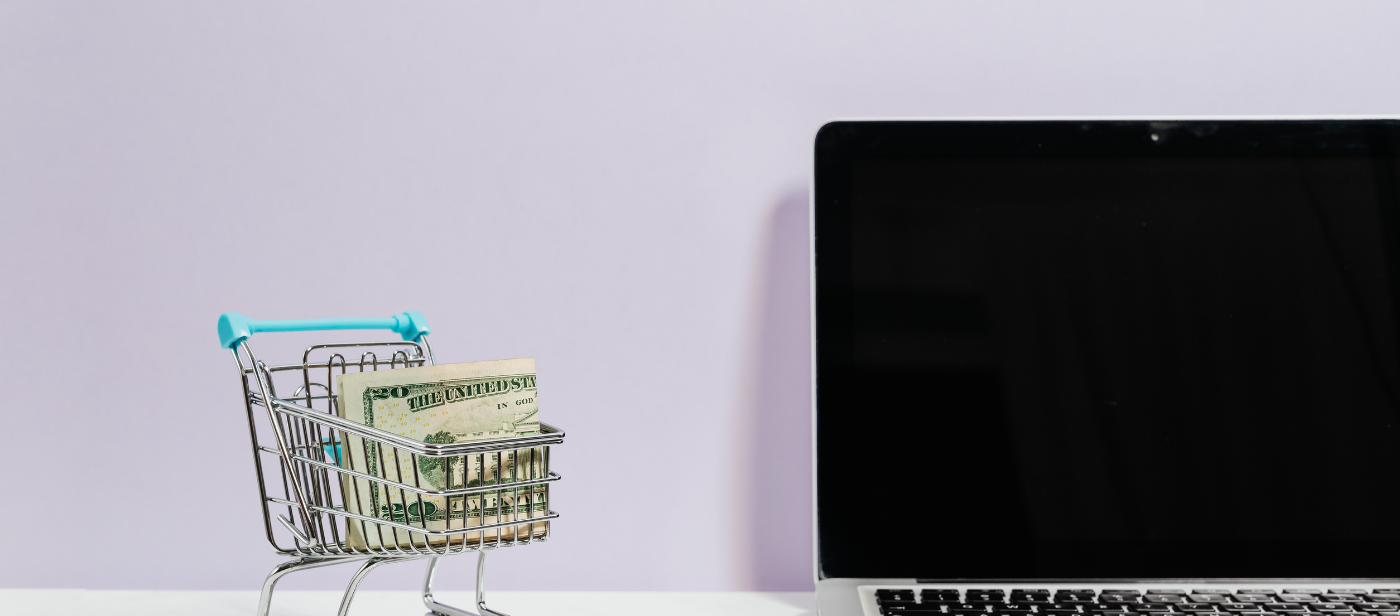
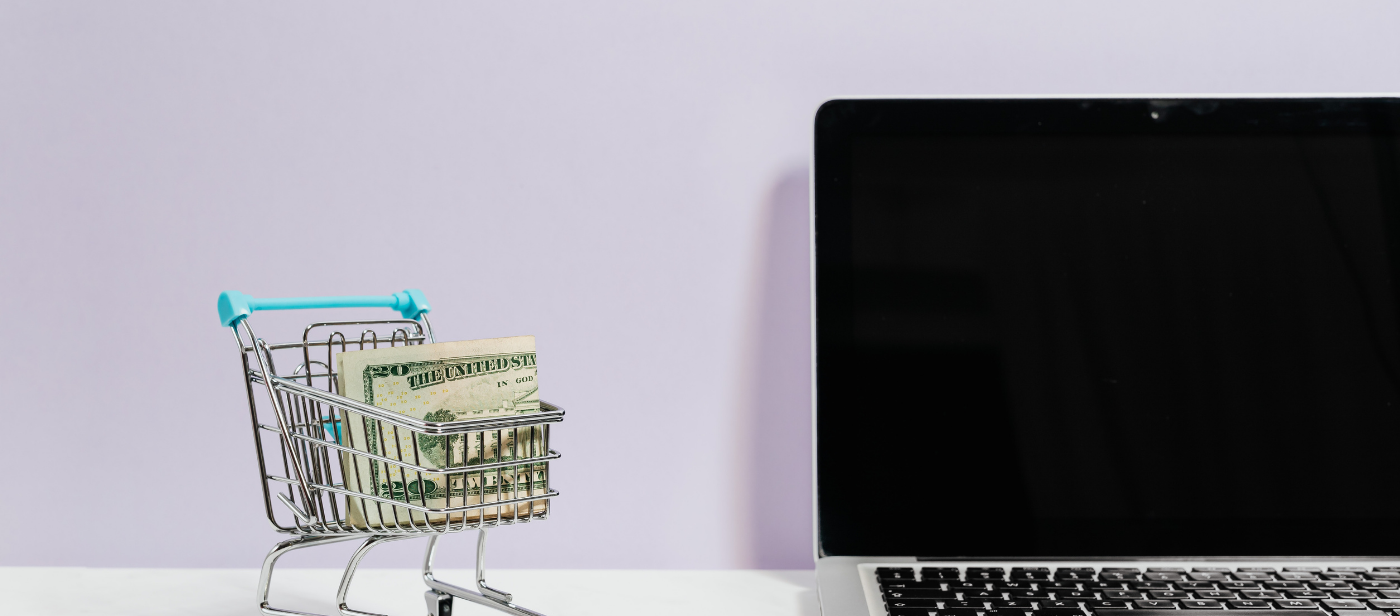
landing page

Changed region(s): [[0.0, 0.4627, 1.0, 1.0], [0.5836, 0.1542, 1.0, 0.2159], [0.5529, 0.2776, 0.5836, 0.3393]]

diff --git a/src/components/imageParagraphComponent/structures/marketingStructure.js b/src/components/imageParagraphComponent/structures/marketingStructure.js
@@ -7,11 +7,11 @@ const marketingStructure = {
   },
   paragraph: {
     className: 'share-nanny-cost-p',
-    text: 'Aumente as suas vendas e a visibilidade da sua marca disponibilizando seus produtos para que influenciadores digitais escolhidos por você possam divulgá-los em suas redes sociais'
+    text: [<span className='grey-p'>Aumente as suas vendas</span>, " e a visibilidade da sua marca disponibilizando seus produtos para que ", <span className='orange-p'>influenciadores digitais</span>, " escolhidos por você possam divulgá-los em suas redes sociais"]
   },
   link: {
     className: 'share-nany-cost-link',
-    text: 'Ready to get started?',
+    text: 'Está pronto para vender mais?',
     href: '/#leedForm',
   },
   image: {

diff --git a/src/components/imageParagraphComponent/structures/onlineStoreStructure.js b/src/components/imageParagraphComponent/structures/onlineStoreStructure.js
@@ -7,11 +7,11 @@ const onlineStoreStructure = {
   },
   paragraph: {
     className: 'share-nanny-cost-p',
-    text: 'Ter uma loja online totalmente personalizada com a sua cara e o seu estilo nunca foi tão fácil, rápido e barato. Ah, e você pode adicionar quantos produtos quiser em sua loja'
+    text: ['Ter uma loja online totalmente ', <span className='grey-p'>personalizada</span>, ' com a sua cara e o seu estilo nunca foi tão fácil, rápido e barato. Ah, e você pode adicionar quantos ', <span className='grey-p'>produtos</span>, ' quiser em sua loja']
   },
   link: {
     className: 'share-nany-cost-link',
-    text: 'Ready to get started?',
+    text: 'Está pronto para vender mais?',
     href: '/#leedForm',
   },
   image: {

diff --git a/src/patterns/header.js b/src/patterns/header.js
@@ -1,6 +1,7 @@
 import React from 'react';
 import { Link } from "react-router-dom";
 import './header.css';
+import { HashLink } from 'react-router-hash-link';
 import shape from '../images/homePage/shape.svg';
 
 
@@ -22,7 +23,7 @@ function Header() {
         </div>
         <div className="right-nav">
           <div className="right-links">
-            <button className="become-a-nanny-share"><h5 className="become-a-nanny-share-title">Inscreva-se</h5></button>
+            <HashLink to="/#leedForm"><button className="become-a-nanny-share"><h5 className="become-a-nanny-share-title">Inscreva-se</h5></button></HashLink>
             {/* <Link className='header-link' to='/4'>Sign in</Link> */}
           </div>
         </div>

diff --git a/src/components/headline/headline.css b/src/components/headline/headline.css
@@ -1,12 +1,12 @@
 .h1-home-page {
-  color: #FFFFFF;
+  color: black;
   width: 350px;
   font-size: 3rem;
   margin: 0 0 40px 0;
 }
 
 .p-home-page {
-  color: #FFFFFF;
+  color: black;
   height: 48px;
   width: 450px;
   margin: 0 0 40px 0;
@@ -36,7 +36,7 @@
 }
 
 .head-line-left {
-  margin: 40px 0 0 0;
+  margin: -150px 0 0 0;
   width: 450px;
 }
 
@@ -60,13 +60,24 @@
   width: 246px;
 }
 
+.greeting-image {
+  margin: 0 0 0 90px;
+}
+
 @media screen and (max-width: 415px) {
   .greeting-image {
     display: none;
   }
 
+  .headline-left-content {
+    padding: 5px 5px 1px 5px;
+    border-radius: 10px;
+    background-color: #FFFFFF;
+  }
+
   .head-line-left {
     width: 92vw;
+    margin: 0;
   }
 
   .h1-home-page {

diff --git a/src/components/raiseSellButton/raiseSellButton.js b/src/components/raiseSellButton/raiseSellButton.js
@@ -1,10 +1,11 @@
 import React from 'react';
+import { HashLink } from 'react-router-hash-link';
 import './raiseSellButton.css'
 
 function RaiseSellButton() {
   return (
     <div className="raise-sell-button-container">
-      <button className="raise-sell-button">Quero aumentar minhas vendas agora mesmo</button>
+      <HashLink to='/#leedForm'><button className="raise-sell-button">Quero aumentar minhas vendas agora mesmo</button></HashLink>
     </div>
   )
 }

diff --git a/src/patterns/footer.js b/src/patterns/footer.js
@@ -12,7 +12,7 @@ import Divider from '../components/divider/divider';
 function Footer() {
   return (
     <footer className="footer-container">
-      <h2 className="footer-h2">Inscreva-se e seja um dos primeiros lojistas!</h2>
+      <h2 className="footer-h2">Inscreva-se</h2>
       <span className="footer-span">Leva menos de 1 minuto</span>
       <button className="footer-btn">
         <HashLink to='/#leedForm' className="footer-btn-container">

diff --git a/src/components/headline/headline.js b/src/components/headline/headline.js
@@ -60,7 +60,7 @@ function HeadLine() {
         <div className="head-line-content">
           <div className="head-line-left">
             <div>
-            <div>
+            <div className="headline-left-content">
               <h1
                 data-testid="h1-home-page"
                 className="h1-home-page"

diff --git a/src/components/imageParagraphComponent/imageParagraphComponent.css b/src/components/imageParagraphComponent/imageParagraphComponent.css
@@ -23,6 +23,15 @@
   margin: 0 0 0 60px;
 }
 
+.orange-p {
+  color: #FF8800;
+}
+
+.grey-p {
+  color: #2F2E2E;
+  font-weight: bold;
+}
+
 @media screen and (max-width: 415px) {
   .image-paragraph-section {
     margin: 10vw 0 10vw 0;

diff --git a/src/components/imageParagraphComponent/structures/easyManagentStructure.js b/src/components/imageParagraphComponent/structures/easyManagentStructure.js
@@ -11,7 +11,7 @@ const easyManagentStructure = {
   },
   link: {
     className: 'share-nany-cost-link',
-    text: 'Ready to get started?',
+    text: 'Está pronto para vender mais?',
     href: '/#leedForm',
   },
   image: {

diff --git a/src/components/imageParagraphComponent/structures/instagramBagStructure.js b/src/components/imageParagraphComponent/structures/instagramBagStructure.js
@@ -11,7 +11,7 @@ const instagramBagStructure = {
   },
   link: {
     className: 'share-nany-cost-link',
-    text: 'Ready to get started?',
+    text: 'Está pronto para vender mais?',
     href: '/#leedForm',
   },
   image: {

diff --git a/src/components/imageParagraphComponent/structures/creditCardStructure.js b/src/components/imageParagraphComponent/structures/creditCardStructure.js
@@ -11,7 +11,7 @@ const creditCardStructure = {
   },
   link: {
     className: 'share-nany-cost-link',
-    text: 'Ready to get started?',
+    text: 'Está pronto para vender mais?',
     href: '/#leedForm',
   },
   image: {

diff --git a/src/components/imageParagraphComponent/structures/supportStructure.js b/src/components/imageParagraphComponent/structures/supportStructure.js
@@ -11,7 +11,7 @@ const marketingStructure = {
   },
   link: {
     className: 'share-nany-cost-link',
-    text: 'Ready to get started?',
+    text: 'Está pronto para vender mais?',
     href: '/#leedForm',
   },
   image: {
